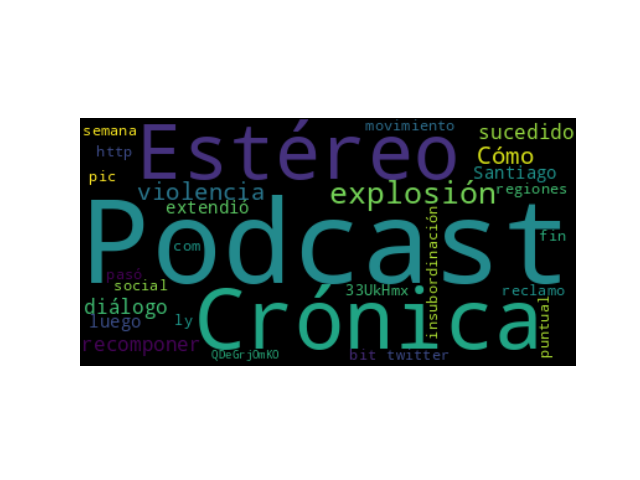
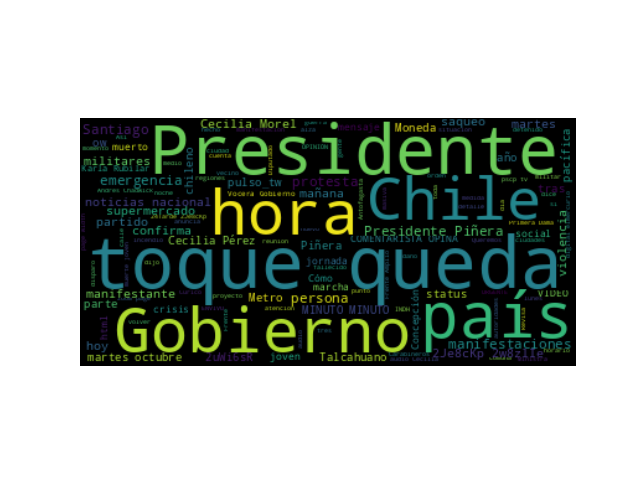
feat(wordcloud): Can generate massive news media twitter wordclouds

Changed region(s): [[0.125, 0.25, 0.9062, 0.75]]

diff --git a/src/statistics/wordclouds.py b/src/statistics/wordclouds.py
@@ -5,13 +5,39 @@ import pandas as pd
 import sys
 import re
 STOPWORDS = get_stop_words("es")
+# Appending some useless and non informatic words to the stopwords
+STOPWORDS.append("twitter")
+STOPWORDS.append("http")
+STOPWORDS.append("https")
+STOPWORDS.append("bit")
+STOPWORDS.append("ly")
+STOPWORDS.append("com")
+STOPWORDS.append("cl")
+STOPWORDS.append("www")
+STOPWORDS.append("tinyurl")
+STOPWORDS.append("Señal")
+STOPWORDS.append("pic")
+STOPWORDS.append("AHORA")
+STOPWORDS.append("meganoticias")
+STOPWORDS.append("Sigue")
+STOPWORDS.append("t13")
+STOPWORDS.append("lacuarta")
+STOPWORDS.append("YouTube")
+STOPWORDS.append("mega")
+STOPWORDS.append("vivo")
+STOPWORDS.append("AHORA24H")
+STOPWORDS.append("cronica")
+STOPWORDS.append("noticia")
+STOPWORDS.append("ÚLTIMO")
+STOPWORDS.append("24Play")
 PATH = "../bdUploader/exports.csv"
 LINK_REGEX = "http[s]{0,1}://\w+\.[ly|com|cl]/\w*"
 def main(args: list)->int:
     df = pd.read_csv(PATH,encoding="utf-8")
+    
     text = df["tweet_text"]
-    one_text = text[0]
-    wordcloud = WordCloud(stopwords=STOPWORDS).generate(one_text)
+    image_text = " ".join(my_text for my_text in text)
+    wordcloud = WordCloud(stopwords=STOPWORDS).generate(image_text)
     plt.imshow(wordcloud,interpolation="bilinear")
     plt.axis("off")
     plt.savefig("wordcloud.png")
